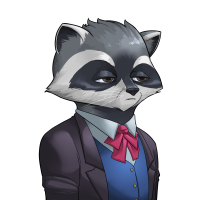
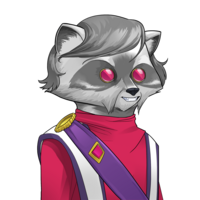
new coons

diff --git a/script.js b/script.js
@@ -1,7 +1,7 @@
 window.onload = () => {
   let raccoons = document.getElementById('animated-raccoons');
   if (raccoons) {
-    const lastRaccoonFileNumber = 9;
+    const lastRaccoonFileNumber = 26;
     let isLookingLeft = false;
 
     let addRaccoon = () => {
